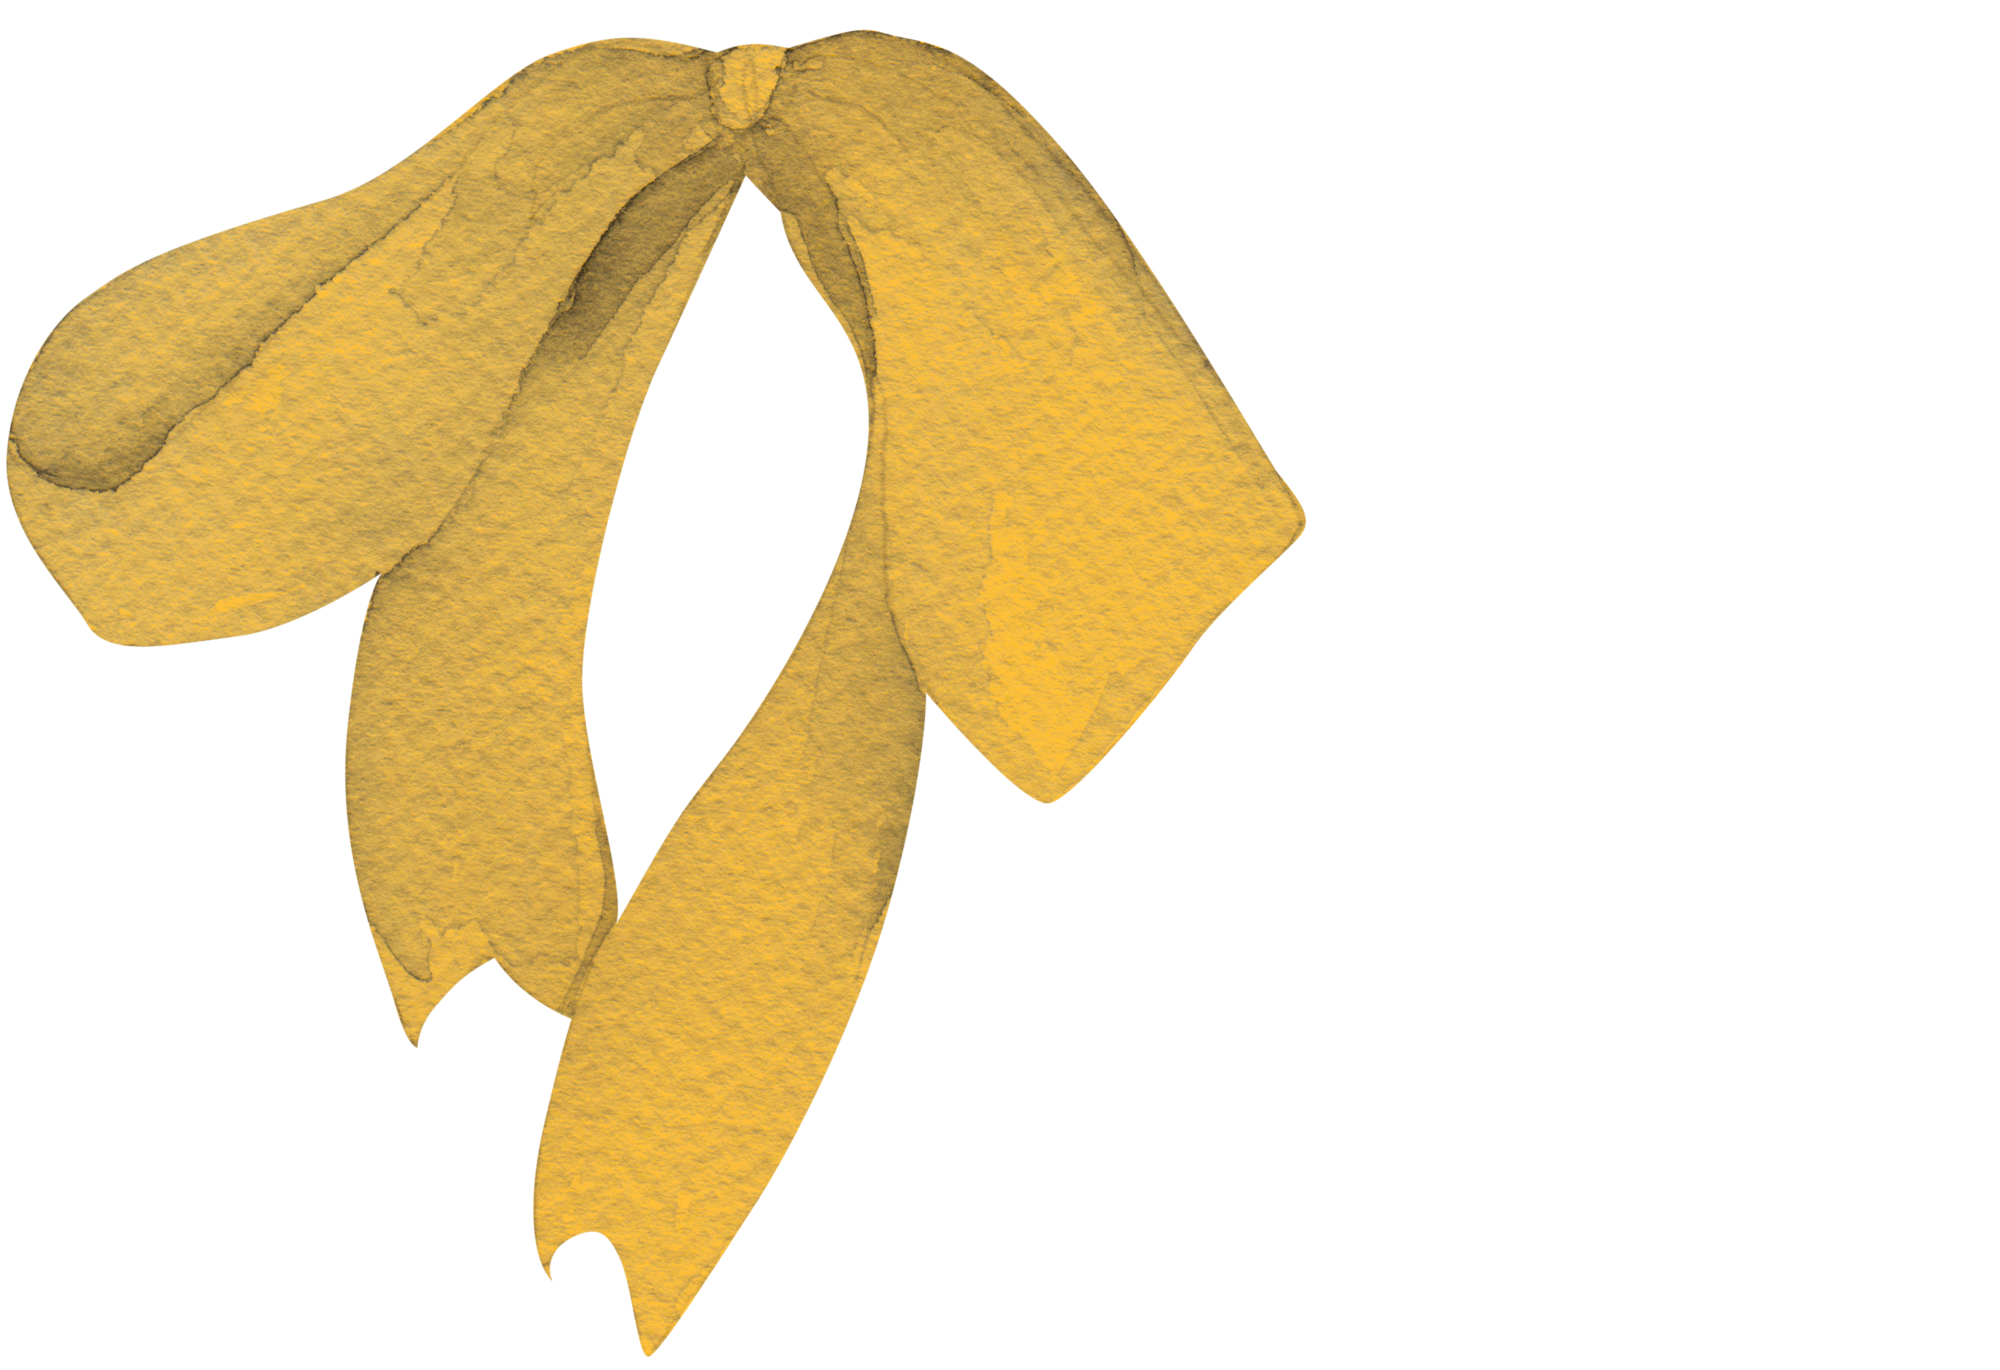
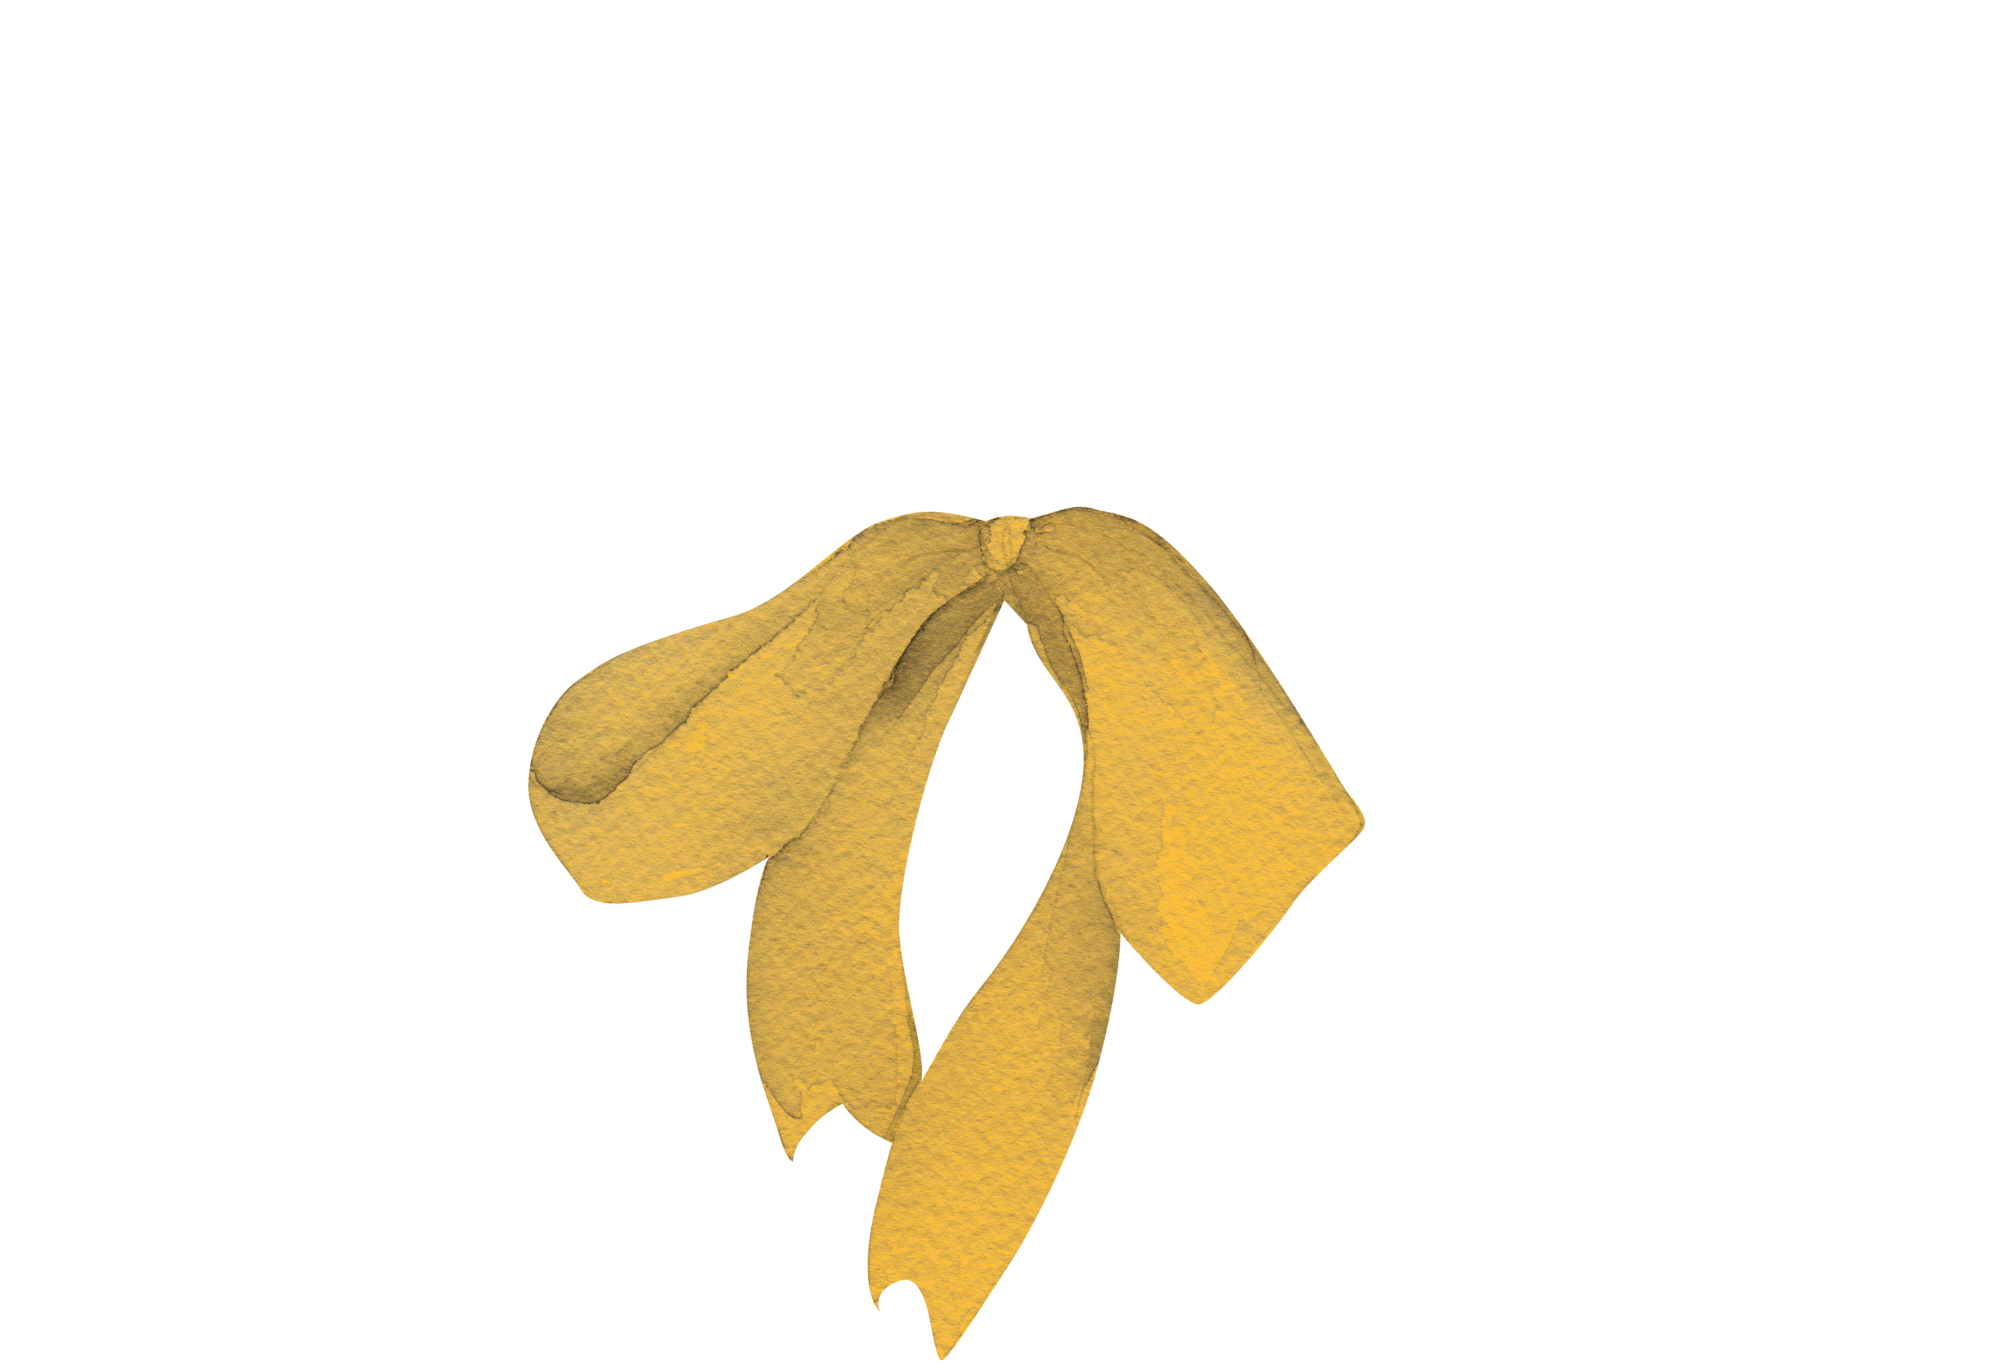
added about me section and photo of me. readded spotify player!

diff --git a/style.css b/style.css
@@ -3,6 +3,11 @@
     src: url(fonts/MixStitch.ttf);
 }
 
+@font-face {
+    font-family: "recoleta";
+    src: url(fonts/recoleta-bold.otf);
+}
+
 :root{
     --primary-color: #e8b341;
     --secondary-color: #332421;
@@ -44,18 +49,43 @@ body {
 }
 
 .yellow-ribbon img{
-    width:30vw;
+    width:40vw;
     position: absolute;
-    top:-5px;
-    filter: drop-shadow(2px 1.5px 1.5px black)
+    top:-18%;
+    left: -8%;
+    filter: drop-shadow(2px 1.5px 1.5px black);
+    animation: rotating 4s ease-in-out infinite;
+}
+
+@keyframes rotating {
+    0% {
+        transform: rotate(1deg);
+    }
+    25% {
+        trasnform: rotate(0deg);
+    }
+    50% {
+        transform: rotate(-1deg)
+    }
+    75% {
+        transform: rotate(0deg);
+    }
+    100% {
+        transform: rotate(1deg);
+    }
+}
+
+img {
+    width: 35vw;
 }
 
 .paper-ribbon img {
-    width:25vw;
+    width:65vw;
     position: absolute;
-    top:-22px;
-    right:170px;
-    filter: drop-shadow(2px 1.5px 1.5px black)
+    top:-35%;
+    right:-5%;
+    filter: drop-shadow(2px 1.5px 1.5px black);
+    animation: rotating 3s ease-in-out infinite;
 }
 
 .spotify-player {
@@ -65,9 +95,13 @@ body {
     height: 10vh;
     margin: 0;
     padding: 0;
-    top: 53%;
-    right: 9%;
+    top: 155%;
+    left: 10%;
     filter: drop-shadow(2px 1.5px 1.5px black)
+}
+
+.spotify-player h2{
+    filter: drop-shadow(0px 0px 0px lightgray);
 }
 
 .sub-title {
@@ -88,4 +122,52 @@ h2 {
     position: absolute;
     top: 95%;
     left: 11%;
+}
+
+.about-me {
+    position: absolute;
+    top: 110%;
+    left: 5%;
+    display: flex;
+}
+
+.about-me-photo {
+    filter: drop-shadow(3px 1px 1px black);
+    animation: rotating 7s ease-in-out infinite;
+
+}
+
+.about-me-text h2{
+    font-style: bold;
+    color: salmon;
+    font-size: 4rem;
+    margin-bottom:0.2em;
+    margin-top:.2em;
+
+}
+
+.about-me-text {
+    margin: 0;
+    padding: 0;
+    width: 45vw;
+}
+
+h3 {
+    color: var(--primary-color);
+    font-family: "recoleta",'Times New Roman', Times, serif;
+    font-size: 1.5rem;
+    margin: 0.2em;
+    filter: drop-shadow(.5px 1px 0px black);
+}
+
+.container {
+    background-color: aliceblue;
+    opacity: 55%;
+    border-radius: 2em;
+    padding: 1em;
+    filter: drop-shadow(2px 3px 5px black);
+}
+
+.container ul{
+    list-style: none;
 }

diff --git a/index.html b/index.html
@@ -18,15 +18,40 @@
             <img src="assets/ribbon-paper.png">
         </div>
 
-        <div class="spotify-player">
+        <!--<div class="spotify-player">
             <iframe data-testid="embed-iframe" style="border-radius:12px" src="https://open.spotify.com/embed/playlist/2tIG1GkxNO8rmMiQxeOjbd?utm_source=generator" width="100%" height="352" frameBorder="0" allowfullscreen="" allow="autoplay; clipboard-write; encrypted-media; fullscreen; picture-in-picture" loading="lazy"></iframe>
-        </div>
+        </div> -->
         <div class="sub-title">
             <h2>website developer | d1 dilly dallier</h2>
         </div>
 
         <div class="middle-thread">
             <h2>-----------------------------------------------------------</h2>
+        </div>
+
+        <div class="about-me">
+            <div class="about-me-photo">
+                <img src="images/portrait.png">
+            </div>
+            <div class="about-me-text">
+                <h2> who the actual heck am i?</h2>
+                <div class="container">
+                    <h3 style="font-size: 3rem;">howdy, im zoe, and im a 16 year old comp sci geek from florida. </h3>
+                    <ul>
+                    <li><h3>mbti type: isfp</h3></li>
+                    <li><h3>tomodachi life personality: achiever</h3></li>
+                    <li><h3>fav software languages: java, html, css, python</h3></li>
+                    <li><h3>hobbies: playing guitar, playing the sims, napping</h3></li>
+                    <li><h3>fav music artist rn: twenty one pilots</h3></li>
+                    <li><h3>where you have prob seen me in hackclub: stardance, macondo, sleepover, campfire</h3></li>
+                    </ul>
+                </div>
+            </div>
+        </div>
+
+        <div class="spotify-player">
+            <h2>check out the music i love!</h2>
+            <iframe data-testid="embed-iframe" style="border-radius:12px" src="https://open.spotify.com/embed/playlist/2tIG1GkxNO8rmMiQxeOjbd?utm_source=generator" width="100%" height="352" frameBorder="0" allowfullscreen="" allow="autoplay; clipboard-write; encrypted-media; fullscreen; picture-in-picture" loading="lazy"></iframe>
         </div>
 
 